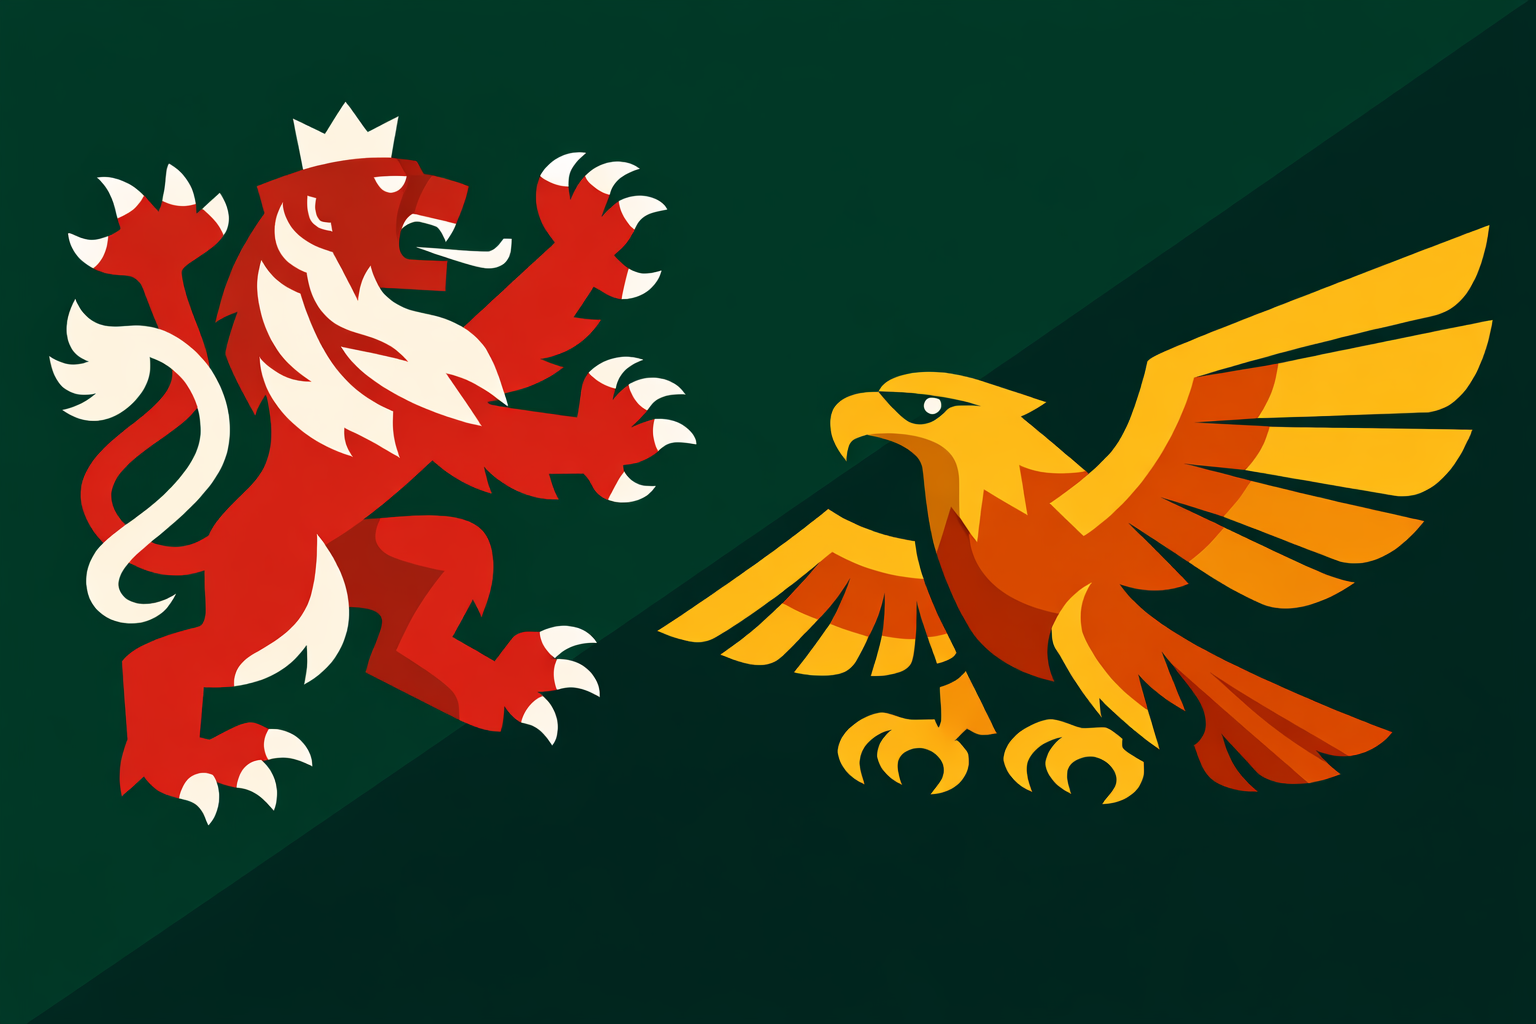
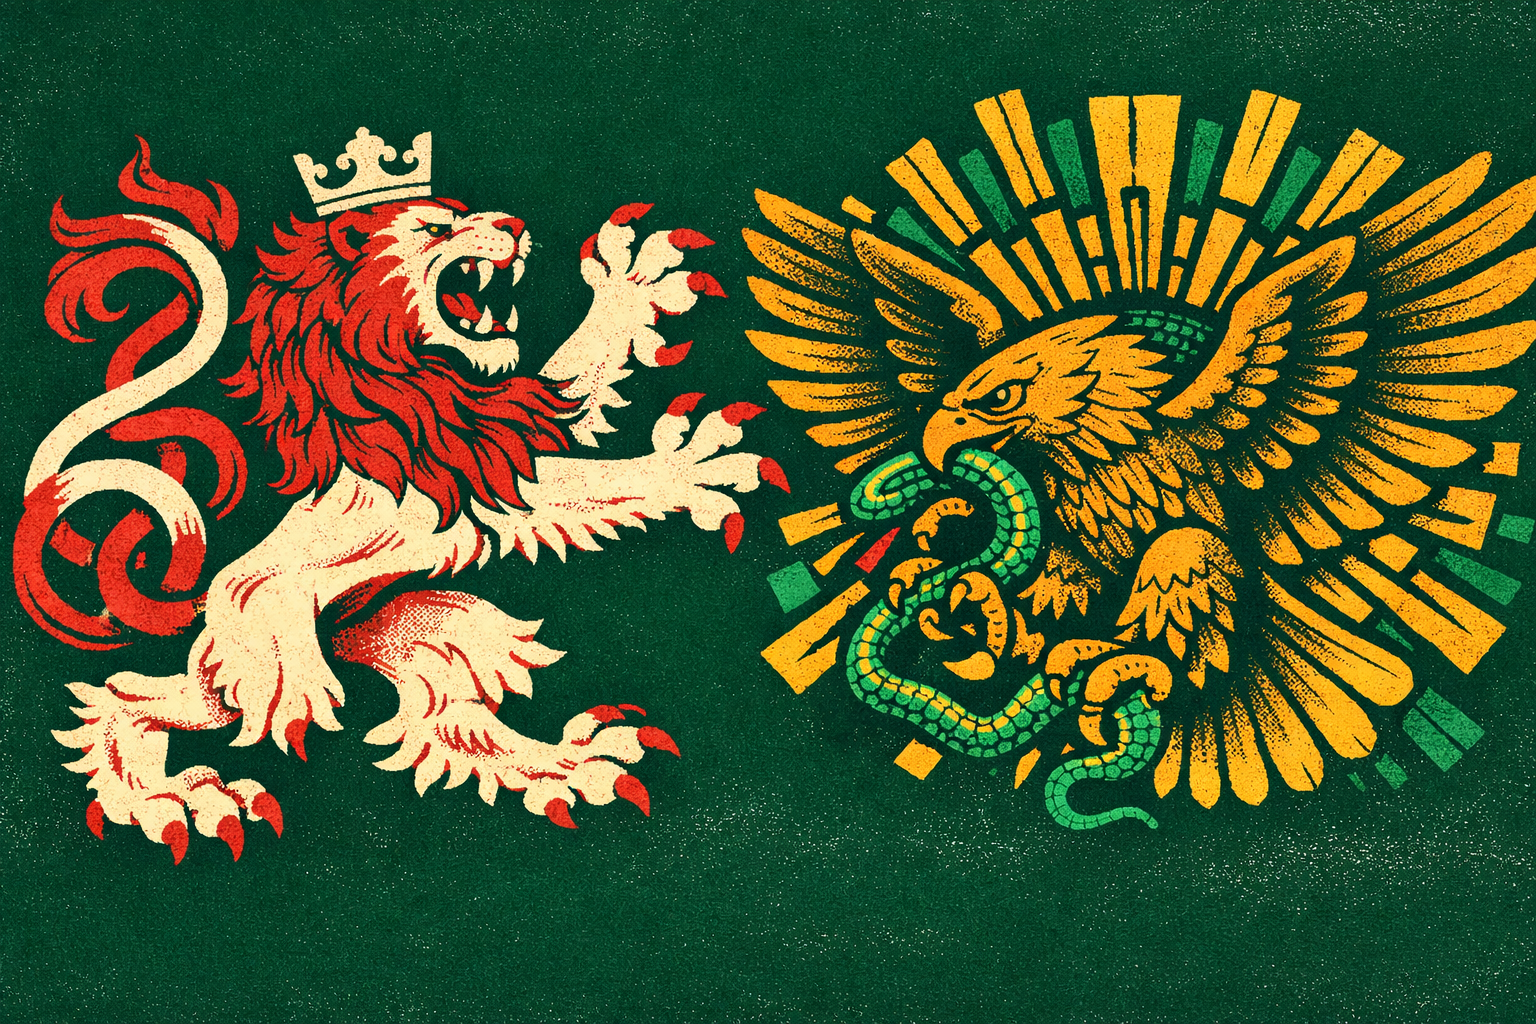
Add MD3-V3 illustrations for Groups B–F and replace Group A MD3 images
10 new illustrations wired in mock-data for previously unillustrated MD3
matches (b3, c3, d3, e3, f3). Group A MD3 images replaced with V3 versions
(match-a-cze-mex, match-a-rsa-kor).

diff --git a/lib/mock-data.ts b/lib/mock-data.ts
@@ -115,8 +115,8 @@ export const MATCHES: Match[] = [
   m({ id:"b1-2", phase:"group-md1", group:"Group B", homeTeam:"Qatar",        homeFlag:"🇶🇦", awayTeam:"Switzerland",   awayFlag:"🇨🇭", date:"Jun 13", time:"21:00", venue:"Levi's Stadium · San Francisco",         communityHome:20, communityDraw:28, communityAway:52, oddsHome:18, oddsDraw:26, oddsAway:56, illustration:"/match-b-qat-sui.png" }),
   m({ id:"b2-1", phase:"group-md2", group:"Group B", homeTeam:"Switzerland",  homeFlag:"🇨🇭", awayTeam:"Bosnia & Herz.", awayFlag:"🇧🇦", date:"Jun 18", time:"18:00", venue:"SoFi Stadium · Los Angeles",             communityHome:48, communityDraw:28, communityAway:24, oddsHome:50, oddsDraw:27, oddsAway:23, illustration:"/match-b-sui-bih.png" }),
   m({ id:"b2-2", phase:"group-md2", group:"Group B", homeTeam:"Canada",       homeFlag:"🇨🇦", awayTeam:"Qatar",          awayFlag:"🇶🇦", date:"Jun 18", time:"22:00", venue:"BC Place · Vancouver",                   communityHome:62, communityDraw:22, communityAway:16, oddsHome:65, oddsDraw:21, oddsAway:14, illustration:"/match-b-can-qat.png" }),
-  m({ id:"b3-1", phase:"group-md3", group:"Group B", homeTeam:"Switzerland",  homeFlag:"🇨🇭", awayTeam:"Canada",         awayFlag:"🇨🇦", date:"Jun 24", time:"22:00", venue:"BC Place · Vancouver",                   communityHome:35, communityDraw:28, communityAway:37, oddsHome:34, oddsDraw:27, oddsAway:39 }),
-  m({ id:"b3-2", phase:"group-md3", group:"Group B", homeTeam:"Bosnia & Herz.",homeFlag:"🇧🇦", awayTeam:"Qatar",          awayFlag:"🇶🇦", date:"Jun 24", time:"22:00", venue:"Lumen Field · Seattle",                 communityHome:50, communityDraw:28, communityAway:22, oddsHome:52, oddsDraw:27, oddsAway:21 }),
+  m({ id:"b3-1", phase:"group-md3", group:"Group B", homeTeam:"Switzerland",  homeFlag:"🇨🇭", awayTeam:"Canada",         awayFlag:"🇨🇦", date:"Jun 24", time:"22:00", venue:"BC Place · Vancouver",                   communityHome:35, communityDraw:28, communityAway:37, oddsHome:34, oddsDraw:27, oddsAway:39, illustration:"/match-b-sui-can.png" }),
+  m({ id:"b3-2", phase:"group-md3", group:"Group B", homeTeam:"Bosnia & Herz.",homeFlag:"🇧🇦", awayTeam:"Qatar",          awayFlag:"🇶🇦", date:"Jun 24", time:"22:00", venue:"Lumen Field · Seattle",                 communityHome:50, communityDraw:28, communityAway:22, oddsHome:52, oddsDraw:27, oddsAway:21, illustration:"/match-b-bih-qat.png" }),
 
   // ══════════════════════════════════════════════════════════════════════════
   // GROUP C
@@ -125,8 +125,8 @@ export const MATCHES: Match[] = [
   m({ id:"c1-2", phase:"group-md1", group:"Group C", homeTeam:"Haiti",        homeFlag:"🇭🇹", awayTeam:"Scotland",       awayFlag:"🏴", date:"Jun 13", time:"21:00", venue:"Gillette Stadium · Boston",              communityHome:22, communityDraw:28, communityAway:50, oddsHome:20, oddsDraw:27, oddsAway:53, illustration:"/match-c-hai-sco.png" }),
   m({ id:"c2-1", phase:"group-md2", group:"Group C", homeTeam:"Scotland",     homeFlag:"🏴", awayTeam:"Morocco",       awayFlag:"🇲🇦", date:"Jun 19", time:"18:00", venue:"Gillette Stadium · Boston",              communityHome:30, communityDraw:28, communityAway:42, oddsHome:28, oddsDraw:27, oddsAway:45, illustration:"/match-c-sco-mar.png" }),
   m({ id:"c2-2", phase:"group-md2", group:"Group C", homeTeam:"Brazil",       homeFlag:"🇧🇷", awayTeam:"Haiti",          awayFlag:"🇭🇹", date:"Jun 19", time:"22:00", venue:"Lincoln Financial Field · Philadelphia",  communityHome:88, communityDraw:8,  communityAway:4,  oddsHome:90, oddsDraw:7,  oddsAway:3,  illustration:"/match-c-bra-hai.png" }),
-  m({ id:"c3-1", phase:"group-md3", group:"Group C", homeTeam:"Scotland",     homeFlag:"🏴", awayTeam:"Brazil",       awayFlag:"🇧🇷", date:"Jun 24", time:"22:00", venue:"Hard Rock Stadium · Miami",              communityHome:15, communityDraw:20, communityAway:65, oddsHome:13, oddsDraw:19, oddsAway:68 }),
-  m({ id:"c3-2", phase:"group-md3", group:"Group C", homeTeam:"Morocco",      homeFlag:"🇲🇦", awayTeam:"Haiti",          awayFlag:"🇭🇹", date:"Jun 24", time:"22:00", venue:"Mercedes-Benz Stadium · Atlanta",       communityHome:72, communityDraw:16, communityAway:12, oddsHome:74, oddsDraw:15, oddsAway:11 }),
+  m({ id:"c3-1", phase:"group-md3", group:"Group C", homeTeam:"Scotland",     homeFlag:"🏴", awayTeam:"Brazil",       awayFlag:"🇧🇷", date:"Jun 24", time:"22:00", venue:"Hard Rock Stadium · Miami",              communityHome:15, communityDraw:20, communityAway:65, oddsHome:13, oddsDraw:19, oddsAway:68, illustration:"/match-c-sco-bra.png" }),
+  m({ id:"c3-2", phase:"group-md3", group:"Group C", homeTeam:"Morocco",      homeFlag:"🇲🇦", awayTeam:"Haiti",          awayFlag:"🇭🇹", date:"Jun 24", time:"22:00", venue:"Mercedes-Benz Stadium · Atlanta",       communityHome:72, communityDraw:16, communityAway:12, oddsHome:74, oddsDraw:15, oddsAway:11, illustration:"/match-c-mar-hai.png" }),
 
   // ══════════════════════════════════════════════════════════════════════════
   // GROUP D
@@ -135,8 +135,8 @@ export const MATCHES: Match[] = [
   m({ id:"d1-2", phase:"group-md1", group:"Group D", homeTeam:"Australia",    homeFlag:"🇦🇺", awayTeam:"Turkey",         awayFlag:"🇹🇷", date:"Jun 13", time:"18:00", venue:"BC Place · Vancouver",                   communityHome:38, communityDraw:30, communityAway:32, oddsHome:36, oddsDraw:31, oddsAway:33, illustration:"/match-d-aus-tur.png" }),
   m({ id:"d2-1", phase:"group-md2", group:"Group D", homeTeam:"United States", homeFlag:"🇺🇸", awayTeam:"Australia",     awayFlag:"🇦🇺", date:"Jun 19", time:"21:00", venue:"Lumen Field · Seattle",                 communityHome:55, communityDraw:24, communityAway:21, oddsHome:54, oddsDraw:24, oddsAway:22, illustration:"/match-d-usa-aus.png" }),
   m({ id:"d2-2", phase:"group-md2", group:"Group D", homeTeam:"Turkey",       homeFlag:"🇹🇷", awayTeam:"Paraguay",       awayFlag:"🇵🇾", date:"Jun 19", time:"21:00", venue:"Levi's Stadium · San Francisco",         communityHome:42, communityDraw:28, communityAway:30, oddsHome:40, oddsDraw:29, oddsAway:31, illustration:"/match-d-tur-par.png" }),
-  m({ id:"d3-1", phase:"group-md3", group:"Group D", homeTeam:"Turkey",       homeFlag:"🇹🇷", awayTeam:"United States", awayFlag:"🇺🇸", date:"Jun 25", time:"22:00", venue:"SoFi Stadium · Los Angeles",             communityHome:32, communityDraw:26, communityAway:42, oddsHome:30, oddsDraw:25, oddsAway:45 }),
-  m({ id:"d3-2", phase:"group-md3", group:"Group D", homeTeam:"Paraguay",     homeFlag:"🇵🇾", awayTeam:"Australia",      awayFlag:"🇦🇺", date:"Jun 25", time:"22:00", venue:"Levi's Stadium · San Francisco",         communityHome:40, communityDraw:30, communityAway:30, oddsHome:38, oddsDraw:31, oddsAway:31 }),
+  m({ id:"d3-1", phase:"group-md3", group:"Group D", homeTeam:"Turkey",       homeFlag:"🇹🇷", awayTeam:"United States", awayFlag:"🇺🇸", date:"Jun 25", time:"22:00", venue:"SoFi Stadium · Los Angeles",             communityHome:32, communityDraw:26, communityAway:42, oddsHome:30, oddsDraw:25, oddsAway:45, illustration:"/match-d-tur-usa.png" }),
+  m({ id:"d3-2", phase:"group-md3", group:"Group D", homeTeam:"Paraguay",     homeFlag:"🇵🇾", awayTeam:"Australia",      awayFlag:"🇦🇺", date:"Jun 25", time:"22:00", venue:"Levi's Stadium · San Francisco",         communityHome:40, communityDraw:30, communityAway:30, oddsHome:38, oddsDraw:31, oddsAway:31, illustration:"/match-d-par-aus.png" }),
 
   // ══════════════════════════════════════════════════════════════════════════
   // GROUP E
@@ -145,8 +145,8 @@ export const MATCHES: Match[] = [
   m({ id:"e1-2", phase:"group-md1", group:"Group E", homeTeam:"Ivory Coast",  homeFlag:"🇨🇮", awayTeam:"Ecuador",        awayFlag:"🇪🇨", date:"Jun 14", time:"21:00", venue:"Lincoln Financial Field · Philadelphia",  communityHome:38, communityDraw:30, communityAway:32, oddsHome:36, oddsDraw:31, oddsAway:33, illustration:"/match-e-civ-ecu.png" }),
   m({ id:"e2-1", phase:"group-md2", group:"Group E", homeTeam:"Germany",      homeFlag:"🇩🇪", awayTeam:"Ivory Coast",    awayFlag:"🇨🇮", date:"Jun 20", time:"18:00", venue:"BMO Field · Toronto",                    communityHome:58, communityDraw:24, communityAway:18, oddsHome:60, oddsDraw:23, oddsAway:17, illustration:"/match-e-ger-civ.png" }),
   m({ id:"e2-2", phase:"group-md2", group:"Group E", homeTeam:"Ecuador",      homeFlag:"🇪🇨", awayTeam:"Curaçao",        awayFlag:"🇨🇼", date:"Jun 20", time:"21:00", venue:"Arrowhead Stadium · Kansas City",        communityHome:65, communityDraw:22, communityAway:13, oddsHome:68, oddsDraw:21, oddsAway:11, illustration:"/match-e-ecu-cur.png" }),
-  m({ id:"e3-1", phase:"group-md3", group:"Group E", homeTeam:"Curaçao",      homeFlag:"🇨🇼", awayTeam:"Ivory Coast",    awayFlag:"🇨🇮", date:"Jun 25", time:"22:00", venue:"Lincoln Financial Field · Philadelphia",  communityHome:25, communityDraw:28, communityAway:47, oddsHome:22, oddsDraw:27, oddsAway:51 }),
-  m({ id:"e3-2", phase:"group-md3", group:"Group E", homeTeam:"Ecuador",      homeFlag:"🇪🇨", awayTeam:"Germany",        awayFlag:"🇩🇪", date:"Jun 25", time:"22:00", venue:"MetLife Stadium · New York",             communityHome:18, communityDraw:22, communityAway:60, oddsHome:16, oddsDraw:20, oddsAway:64 }),
+  m({ id:"e3-1", phase:"group-md3", group:"Group E", homeTeam:"Curaçao",      homeFlag:"🇨🇼", awayTeam:"Ivory Coast",    awayFlag:"🇨🇮", date:"Jun 25", time:"22:00", venue:"Lincoln Financial Field · Philadelphia",  communityHome:25, communityDraw:28, communityAway:47, oddsHome:22, oddsDraw:27, oddsAway:51, illustration:"/match-e-cur-civ.png" }),
+  m({ id:"e3-2", phase:"group-md3", group:"Group E", homeTeam:"Ecuador",      homeFlag:"🇪🇨", awayTeam:"Germany",        awayFlag:"🇩🇪", date:"Jun 25", time:"22:00", venue:"MetLife Stadium · New York",             communityHome:18, communityDraw:22, communityAway:60, oddsHome:16, oddsDraw:20, oddsAway:64, illustration:"/match-e-ecu-ger.png" }),
 
   // ══════════════════════════════════════════════════════════════════════════
   // GROUP F
@@ -155,8 +155,8 @@ export const MATCHES: Match[] = [
   m({ id:"f1-2", phase:"group-md1", group:"Group F", homeTeam:"Sweden",       homeFlag:"🇸🇪", awayTeam:"Tunisia",        awayFlag:"🇹🇳", date:"Jun 14", time:"21:00", venue:"Estadio BBVA · Guadalupe",              communityHome:55, communityDraw:25, communityAway:20, oddsHome:58, oddsDraw:23, oddsAway:19, illustration:"/match-f-swe-tun.png" }),
   m({ id:"f2-1", phase:"group-md2", group:"Group F", homeTeam:"Netherlands",  homeFlag:"🇳🇱", awayTeam:"Sweden",         awayFlag:"🇸🇪", date:"Jun 20", time:"21:00", venue:"NRG Stadium · Houston",                  communityHome:48, communityDraw:27, communityAway:25, oddsHome:46, oddsDraw:28, oddsAway:26, illustration:"/match-f-ned-swe.png" }),
   m({ id:"f2-2", phase:"group-md2", group:"Group F", homeTeam:"Tunisia",      homeFlag:"🇹🇳", awayTeam:"Japan",          awayFlag:"🇯🇵", date:"Jun 20", time:"21:00", venue:"Estadio BBVA · Guadalupe",              communityHome:30, communityDraw:28, communityAway:42, oddsHome:28, oddsDraw:27, oddsAway:45, illustration:"/match-f-tun-jpn.png" }),
-  m({ id:"f3-1", phase:"group-md3", group:"Group F", homeTeam:"Japan",        homeFlag:"🇯🇵", awayTeam:"Sweden",         awayFlag:"🇸🇪", date:"Jun 25", time:"22:00", venue:"AT&T Stadium · Dallas",                  communityHome:38, communityDraw:28, communityAway:34, oddsHome:36, oddsDraw:29, oddsAway:35 }),
-  m({ id:"f3-2", phase:"group-md3", group:"Group F", homeTeam:"Tunisia",      homeFlag:"🇹🇳", awayTeam:"Netherlands",    awayFlag:"🇳🇱", date:"Jun 25", time:"22:00", venue:"Arrowhead Stadium · Kansas City",        communityHome:20, communityDraw:24, communityAway:56, oddsHome:18, oddsDraw:22, oddsAway:60 }),
+  m({ id:"f3-1", phase:"group-md3", group:"Group F", homeTeam:"Japan",        homeFlag:"🇯🇵", awayTeam:"Sweden",         awayFlag:"🇸🇪", date:"Jun 25", time:"22:00", venue:"AT&T Stadium · Dallas",                  communityHome:38, communityDraw:28, communityAway:34, oddsHome:36, oddsDraw:29, oddsAway:35, illustration:"/match-f-jpn-swe.png" }),
+  m({ id:"f3-2", phase:"group-md3", group:"Group F", homeTeam:"Tunisia",      homeFlag:"🇹🇳", awayTeam:"Netherlands",    awayFlag:"🇳🇱", date:"Jun 25", time:"22:00", venue:"Arrowhead Stadium · Kansas City",        communityHome:20, communityDraw:24, communityAway:56, oddsHome:18, oddsDraw:22, oddsAway:60, illustration:"/match-f-tun-ned.png" }),
 
   // ══════════════════════════════════════════════════════════════════════════
   // GROUP G
